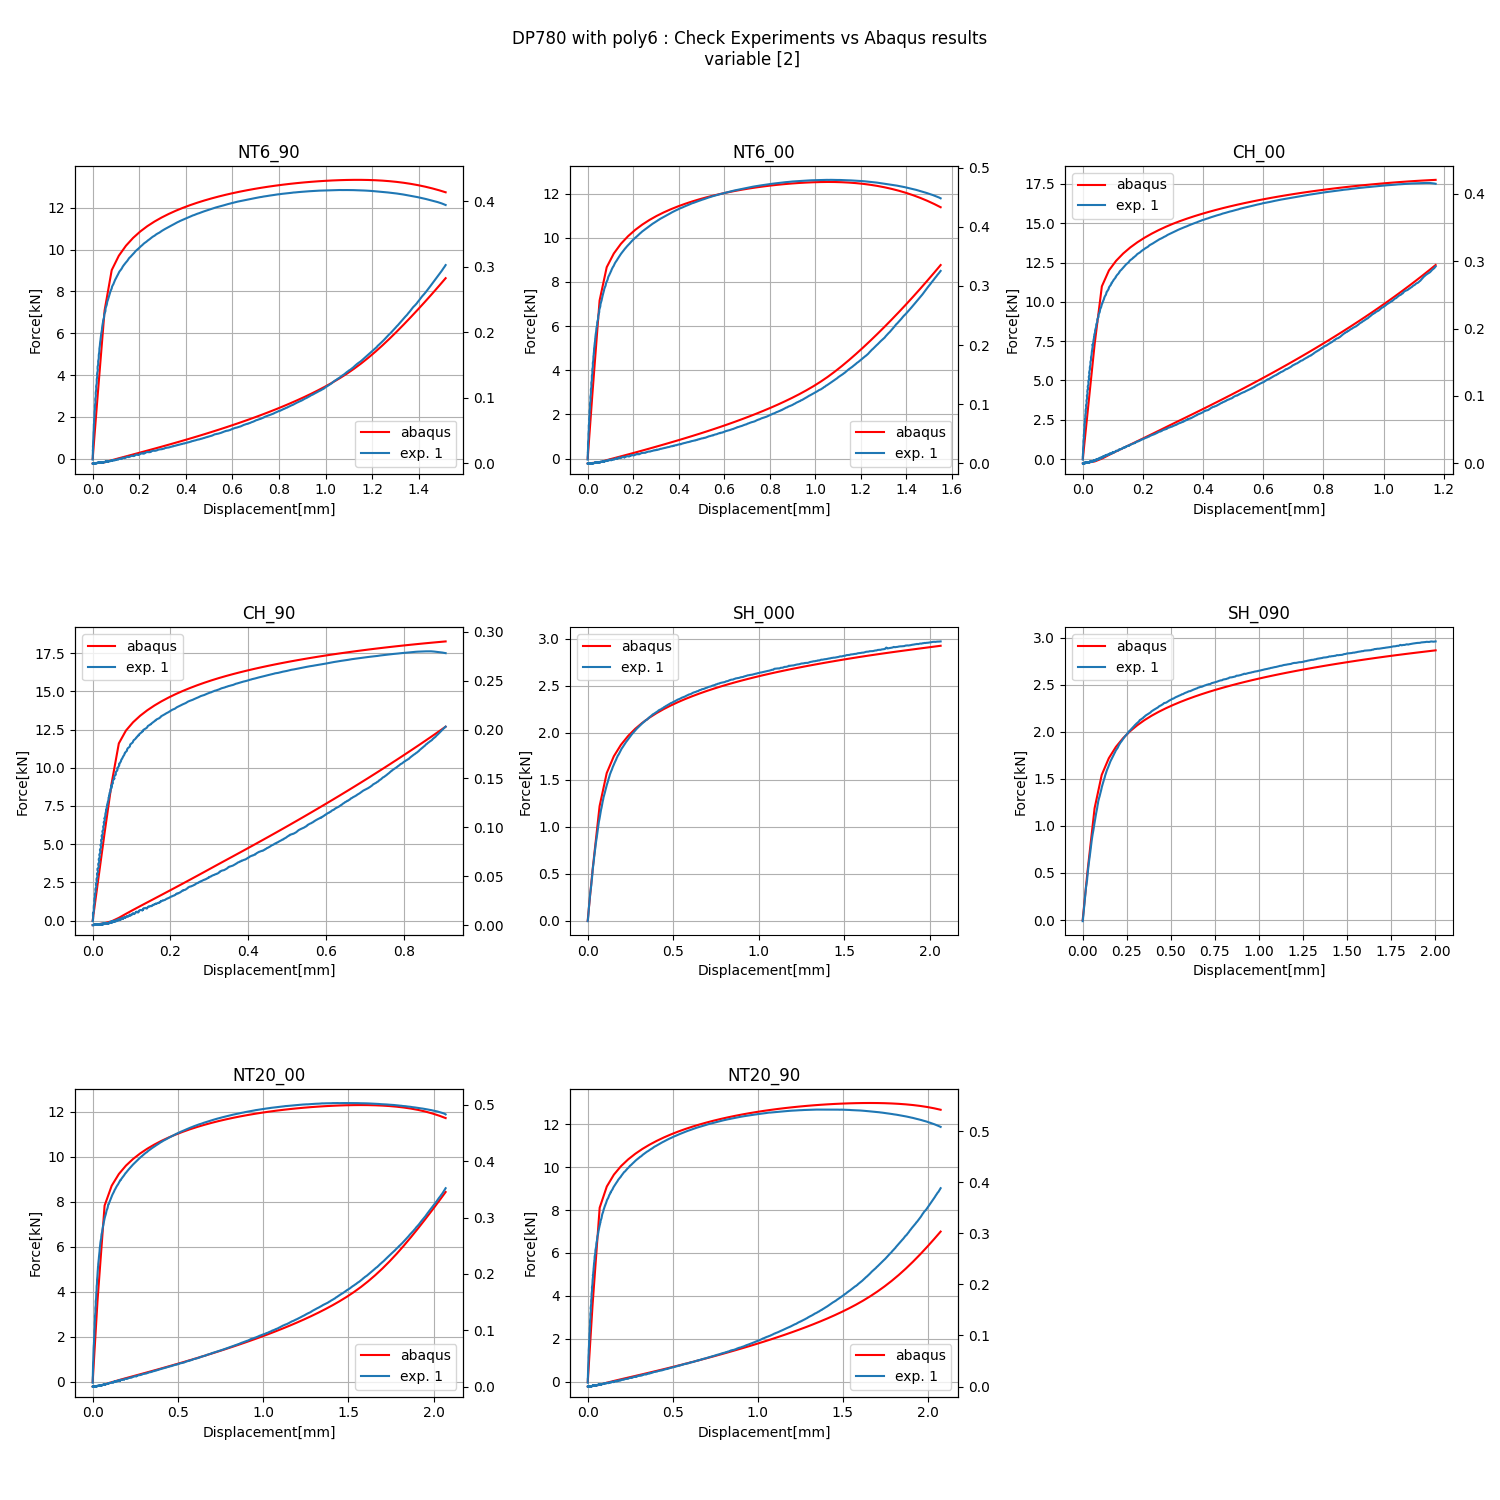
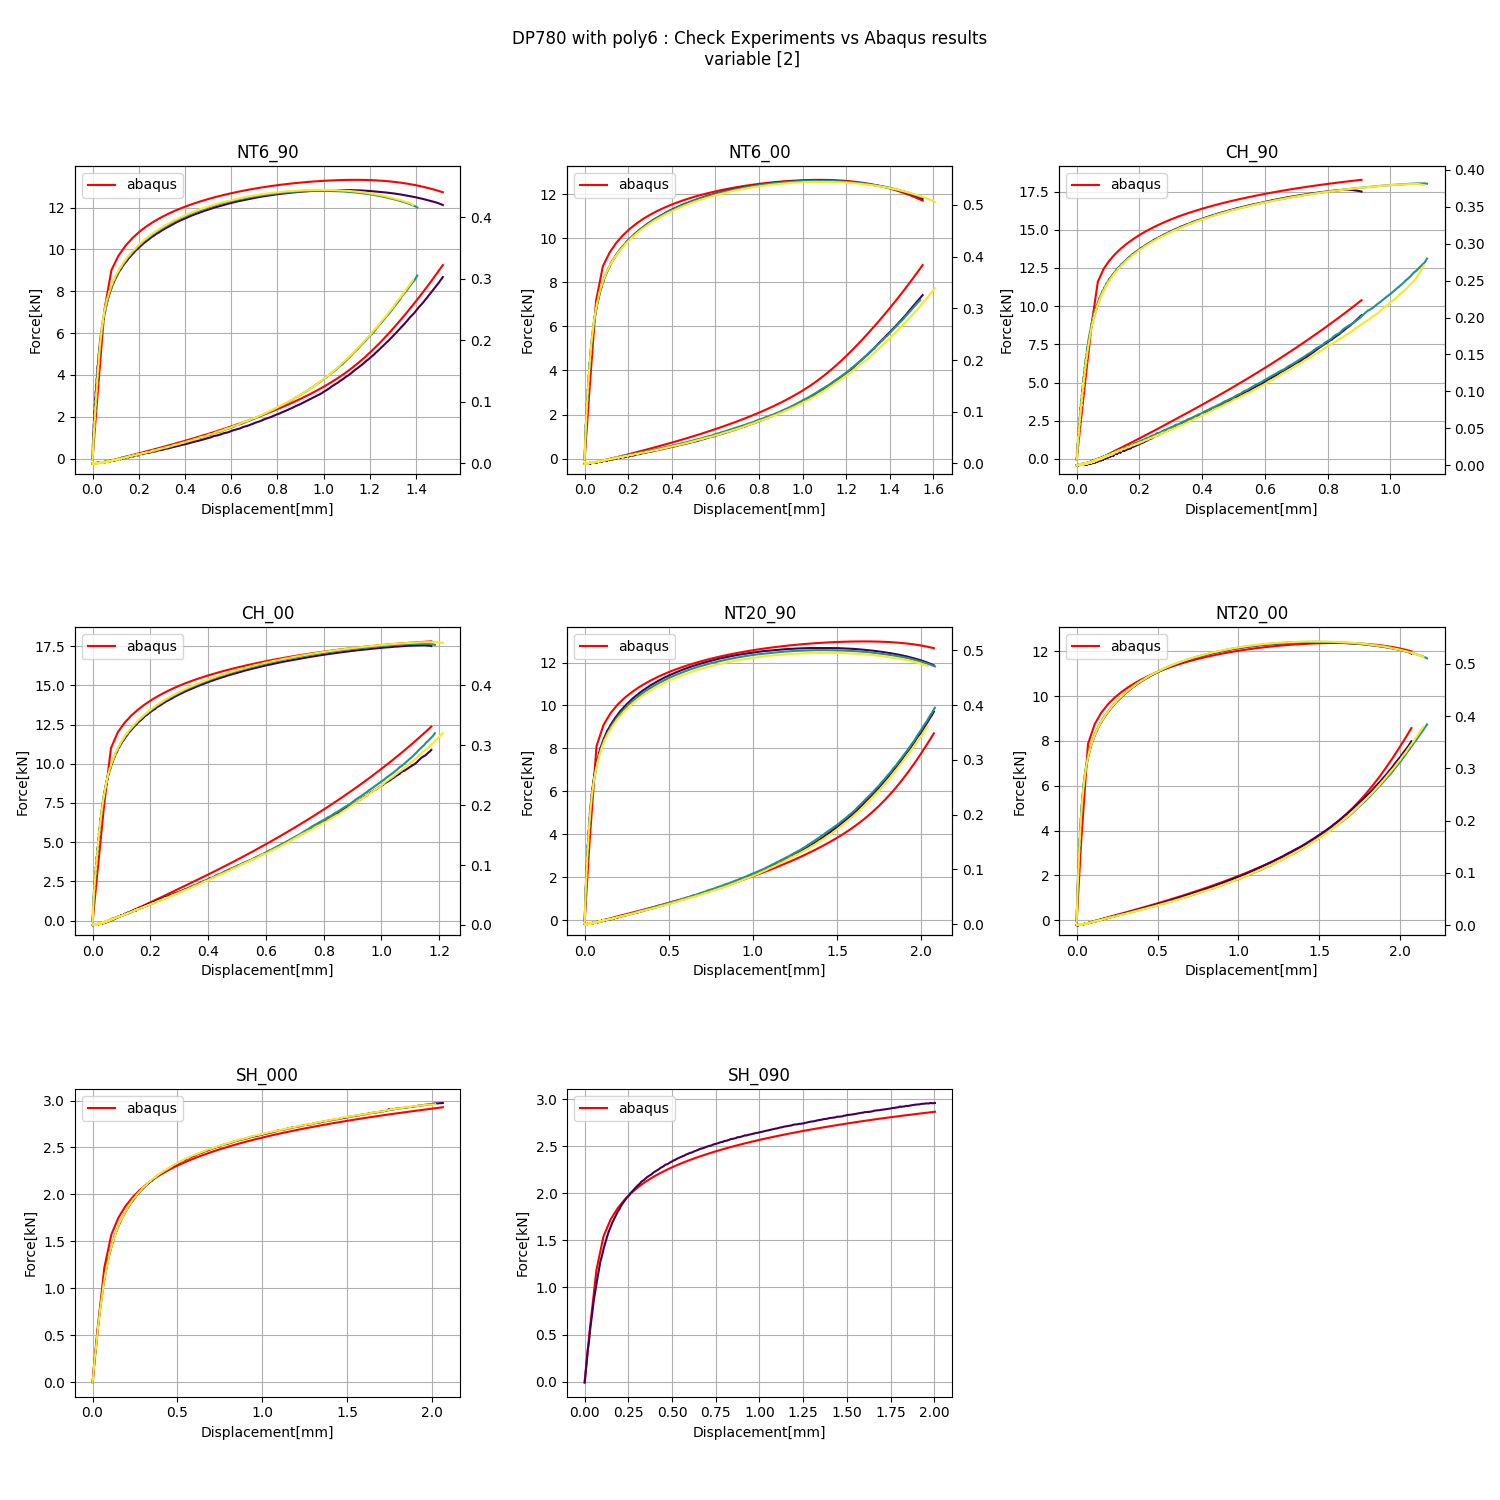
fixed runlargesim, waiting sim to start

diff --git a/polyN_optimization/framework_cluster.py b/polyN_optimization/framework_cluster.py
@@ -84,11 +84,14 @@ def mean_square_error_fd(test, var_optim=0, n_try=0):
 
     results_exp_dir = polyN_cali_dir + sep + "results_exp" + sep + material
     type_test, ori = test.split("_")
+    n_exp = mat_exp[type_test][ori]
     lens = []
     disps = np.empty(0)
     forces = np.empty(0)
 
-    for m in range(1):
+    area_between_curves = 0
+
+    for m in range(n_exp):
         exp_res_path = results_exp_dir + sep + type_test + "_" + ori + f"_{m+1}.csv"
         df_exp = pd.read_csv(exp_res_path)
         e = df_exp["Displacement longi[mm]"] if type_test == "SH" else df_exp["Displacement[mm]"]
@@ -97,14 +100,14 @@ def mean_square_error_fd(test, var_optim=0, n_try=0):
         disps = np.concatenate((disps, e))
         forces = np.concatenate((forces, s))
     
-    f_exp = interp1d(disps, forces, kind="linear", fill_value="extrapolate")
-    x_common = np.linspace(0, min(max(x_sim), max(e)), num=500)
-    y1_common = f_sim(x_common)
-    y2_common = f_exp(x_common)
-    y1_common[0] = 0
-    y2_common[0] = 0
-    y_diff = np.abs(y1_common - y2_common)
-    area_between_curves = simps(y=y_diff, x=x_common)
+        f_exp = interp1d(disps, forces, kind="linear", fill_value="extrapolate")
+        x_common = np.linspace(0, min(max(x_sim), max(e)), num=500)
+        y1_common = f_sim(x_common)
+        y2_common = f_exp(x_common)
+        y1_common[0] = 0
+        y2_common[0] = 0
+        y_diff = np.abs(y1_common - y2_common)
+        area_between_curves = area_between_curves + simps(y=y_diff, x=x_common)
 
     return(area_between_curves)
 
@@ -115,16 +118,19 @@ def mean_square_error_str(test, var_optim=0, n_try=0):
 
     results_exp_dir = polyN_cali_dir + sep + "results_exp" + sep + material
     type_test, ori = test.split("_")
+    n_exp = mat_exp[type_test][ori]
     lens = []
     disps = np.empty(0)
     strains = np.empty(0)
+
+    area_between_curves = 0
 
     if "Strain_ext" in df_sim.columns:
         x_sim = df_sim["U2"]
         y_sim = df_sim["Strain_ext"]
         f_sim = interp1d(x_sim, y_sim, kind="linear", fill_value="extrapolate")
 
-        for m in range(1):
+        for m in range(n_exp):
             exp_res_path = results_exp_dir + sep + type_test + "_" + ori + f"_{m+1}.csv"
             df_exp = pd.read_csv(exp_res_path)
             e = df_exp["Displacement longi[mm]"] if type_test == "SH" else df_exp["Displacement[mm]"]
@@ -133,16 +139,14 @@ def mean_square_error_str(test, var_optim=0, n_try=0):
             disps = np.concatenate((disps, e))
             strains = np.concatenate((strains, s))
             
-        f_exp = interp1d(disps, strains, kind="linear", fill_value="extrapolate")
-        x_common = np.linspace(0, min(max(x_sim), max(e)), num=500)
-        y1_common = f_sim(x_common)
-        y2_common = f_exp(x_common)
-        y1_common[0] = 0
-        y2_common[0] = 0
-        y_diff = np.abs(y1_common - y2_common)
-        area_between_curves = simps(y=y_diff, x=x_common)
-    else:
-        area_between_curves = 0
+            f_exp = interp1d(disps, strains, kind="linear", fill_value="extrapolate")
+            x_common = np.linspace(0, min(max(x_sim), max(e)), num=500)
+            y1_common = f_sim(x_common)
+            y2_common = f_exp(x_common)
+            y1_common[0] = 0
+            y2_common[0] = 0
+            y_diff = np.abs(y1_common - y2_common)
+            area_between_curves = area_between_curves + simps(y=y_diff, x=x_common)
         
     return(area_between_curves)
 
@@ -287,7 +291,7 @@ def framework_mini2(var_optim):
     else :
         coeff_polyN_mini = firstopti_mini()
 
-    b = 0.5 * np.abs(coeff_polyN_mini)
+    b = 0.2 * np.abs(coeff_polyN_mini)
     b = b[var_optim]
 
     coeff_law = np.load(polyN_cali_dir + sep + f"{material}_{law}_mini_coeff.npy")

diff --git a/polyN_optimization/framework.py b/polyN_optimization/framework.py
@@ -48,7 +48,7 @@ for type_test in mat_exp.keys():
         
 tests = ut_tests
 def numerical_gradient(f, x, n_try):
-    h = 0.1
+    h = 0.05
     grad = np.zeros_like(x)
     for i in range(x.size):
 
@@ -87,7 +87,8 @@ def mean_square_error(test, var_optim=0, n_try=0):
     disps = np.empty(0)
     forces = np.empty(0)
 
-    for m in range(1):
+    area_between_curves = 0
+    for m in range(n_exp):
         exp_res_path = results_exp_dir + sep + type_test + "_" + ori + f"_{m+1}.csv"
         df_exp = pd.read_csv(exp_res_path)
         e = df_exp["Displacement longi[mm]"] if type_test == "SH" else df_exp["Displacement[mm]"]
@@ -96,14 +97,14 @@ def mean_square_error(test, var_optim=0, n_try=0):
         disps = np.concatenate((disps, e))
         forces = np.concatenate((forces, s))
     
-    f_exp = interp1d(disps, forces, kind="linear", fill_value="extrapolate")
-    x_common = np.linspace(0, min(max(x_sim), max(e)), num=500)
-    y1_common = f_sim(x_common)
-    y2_common = f_exp(x_common)
-    y1_common[0] = 0
-    y2_common[0] = 0
-    y_diff = np.abs(y1_common - y2_common)
-    area_between_curves = simpson(y=y_diff, x=x_common)
+        f_exp = interp1d(disps, forces, kind="linear", fill_value="extrapolate")
+        x_common = np.linspace(0, min(max(x_sim), max(e)), num=500)
+        y1_common = f_sim(x_common)
+        y2_common = f_exp(x_common)
+        y1_common[0] = 0
+        y2_common[0] = 0
+        y_diff = np.abs(y1_common - y2_common)
+        area_between_curves = area_between_curves + simpson(y=y_diff, x=x_common)
     print(test, y1_common, y2_common, x_common, var_optim, n_try)
     return(area_between_curves)
 
@@ -161,6 +162,7 @@ def framework_mini(var_optim):
     else:
         coeff_polyN_mini = firstopti_mini()
     coeff_law = np.load(polyN_cali_dir + sep + f"{law}_mini_coeff.npy")
+    
     a = coeff_law[0]
     b = coeff_law[1]
     c = coeff_law[2]

diff --git a/polyN_optimization/running/run_large_sim_cluster.py b/polyN_optimization/running/run_large_sim_cluster.py
@@ -482,7 +482,11 @@ def has_failed(n_batch):
         if lines[-2] == "Abaqus Error: Problem during linking - Abaqus/Standard User Subroutines\n":
             return(True)
         return(False)
-
+    
+def batch_running(batch):
+    out_file = "slurm-" + batch + ".out"
+    out_filepath = run_dir + sep + out_file
+    return(os.path.exists(out_filepath))
 
 def launch_run(tests, func, material, degree, law, protomodel, input_type, var_optim=0, n_try=0):
     #Run les tests disponibles experimentalement
@@ -500,11 +504,17 @@ def launch_run(tests, func, material, degree, law, protomodel, input_type, var_o
     for test in tests:
         batch = simulate(test, func, input_type, law, n_try, var_optim)
         batchs.append(batch)
+
     #Waiting for simulations to start
-    time.sleep(250 + 26)
+    for i in range(n):
+        while not(batch_running(batchs[i])):
+            time.sleep(1)
 
     tests_failure = []
     tests_success = []
+
+    #Average time to be able to see if one simulation crashed
+    time.sleep(30)
 
     for i in range(n): 
         if has_failed(batchs[i]):
@@ -512,14 +522,14 @@ def launch_run(tests, func, material, degree, law, protomodel, input_type, var_o
         else:
             tests_success.append(tests[i])
 
-    print(tests_failure)
+    #Relaunch the failed simulations
     if len(tests_failure) != 0:
         launch_run(tests_failure, func, material, degree, law, protomodel, input_type, var_optim, n_try)
     
     #Waiting for simulations to end
     for test in tests_success:
         while not(sim_finished(test, input_type, var_optim, n_try)):
-            time.sleep(5)
+            time.sleep(1)
 
 def create_csv(tests, material, input_type, var_optim=0, n_try=0):
 

diff --git a/polyN_optimization/check/compare_sim_exp.py b/polyN_optimization/check/compare_sim_exp.py
@@ -359,7 +359,7 @@ def compare_large_strain(material, func, degree, input_type, var_optim=0, n_try=
                     if "Strain_ext" in df_sim.columns:
                         ax2 = ax[i].twinx()
                         ax2.plot(df_sim["U2"], df_sim["Strain_ext"], label="abaqus", c="red")
-                    colors = plt.cm.viridis(np.linspace(0, 1, type_tests_mat[ori]))
+                    colors = plt.cm.viridis(np.linspace(0, 0.2, type_tests_mat[ori]))
                     for m in range(type_tests_mat[ori]):
                         exp_res_path = results_exp_dir + sep + type_test + "_" + ori + f"_{m+1}.csv"
                         df_exp = pd.read_csv(exp_res_path)
